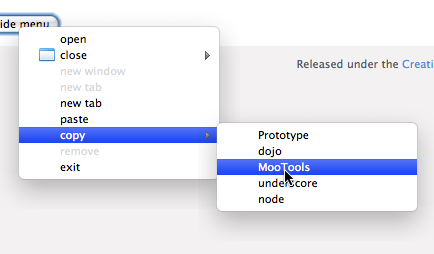
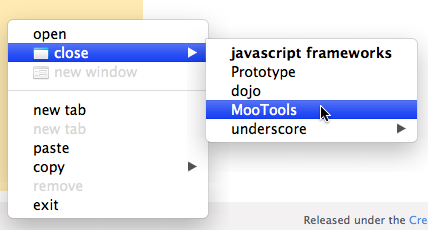
- version 1.2 - update screen show

diff --git a/Demos/TestMenu/demo.js b/Demos/TestMenu/demo.js
@@ -32,54 +32,6 @@ document.addEvent('domready', function(){
 					}
 				},
 				{
-					name: 'dojo2',
-					action: function(){
-						alert('dojo.js')
-					}
-				},
-				{
-					name: 'MooTools2',
-					action: function(){
-						alert('mootools-core.js')
-					}
-				},
-				{
-					name: 'dojo3',
-					action: function(){
-						alert('dojo.js')
-					}
-				},
-				{
-					name: 'MooTools3',
-					action: function(){
-						alert('mootools-core.js')
-					}
-				},
-				{
-					name: 'dojo4',
-					action: function(){
-						alert('dojo.js')
-					}
-				},
-				{
-					name: 'MooTools4',
-					action: function(){
-						alert('mootools-core.js')
-					}
-				},
-				{
-					name: 'dojo5',
-					action: function(){
-						alert('dojo.js')
-					}
-				},
-				{
-					name: 'MooTools5',
-					action: function(){
-						alert('mootools-core.js')
-					}
-				},
-				{
 					name: 'underscore',
 					action: function(){
 						alert('underscore.js')

diff --git a/Source/Core/Mif.Menu.js b/Source/Core/Mif.Menu.js
@@ -15,7 +15,7 @@ provides: Mif.Menu
 
 Mif.Menu=new Class({
 	
-	version: '1.2dev',
+	version: '1.2',
 
 	Implements: [Events, Options],
 	
